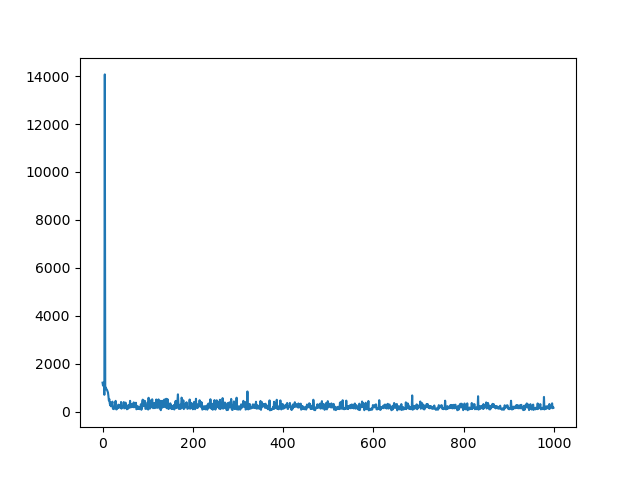
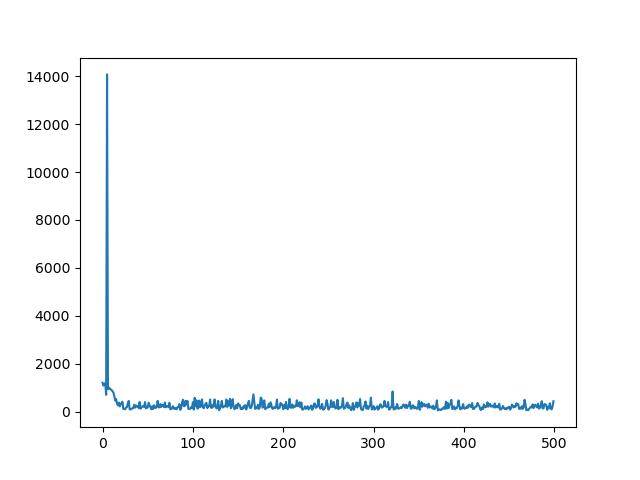
update Autoencoder

diff --git a/final/preprocess/Autoencoder/main.py b/final/preprocess/Autoencoder/main.py
@@ -18,7 +18,7 @@ torch.backends.cudnn.benchmark = False
 torch.backends.cudnn.deterministic = True
 
 batch_size = 4
-epoch = 1000
+epoch = 500
 
 input_dim = int(sys.argv[1])
 output_dim = int(sys.argv[2])
